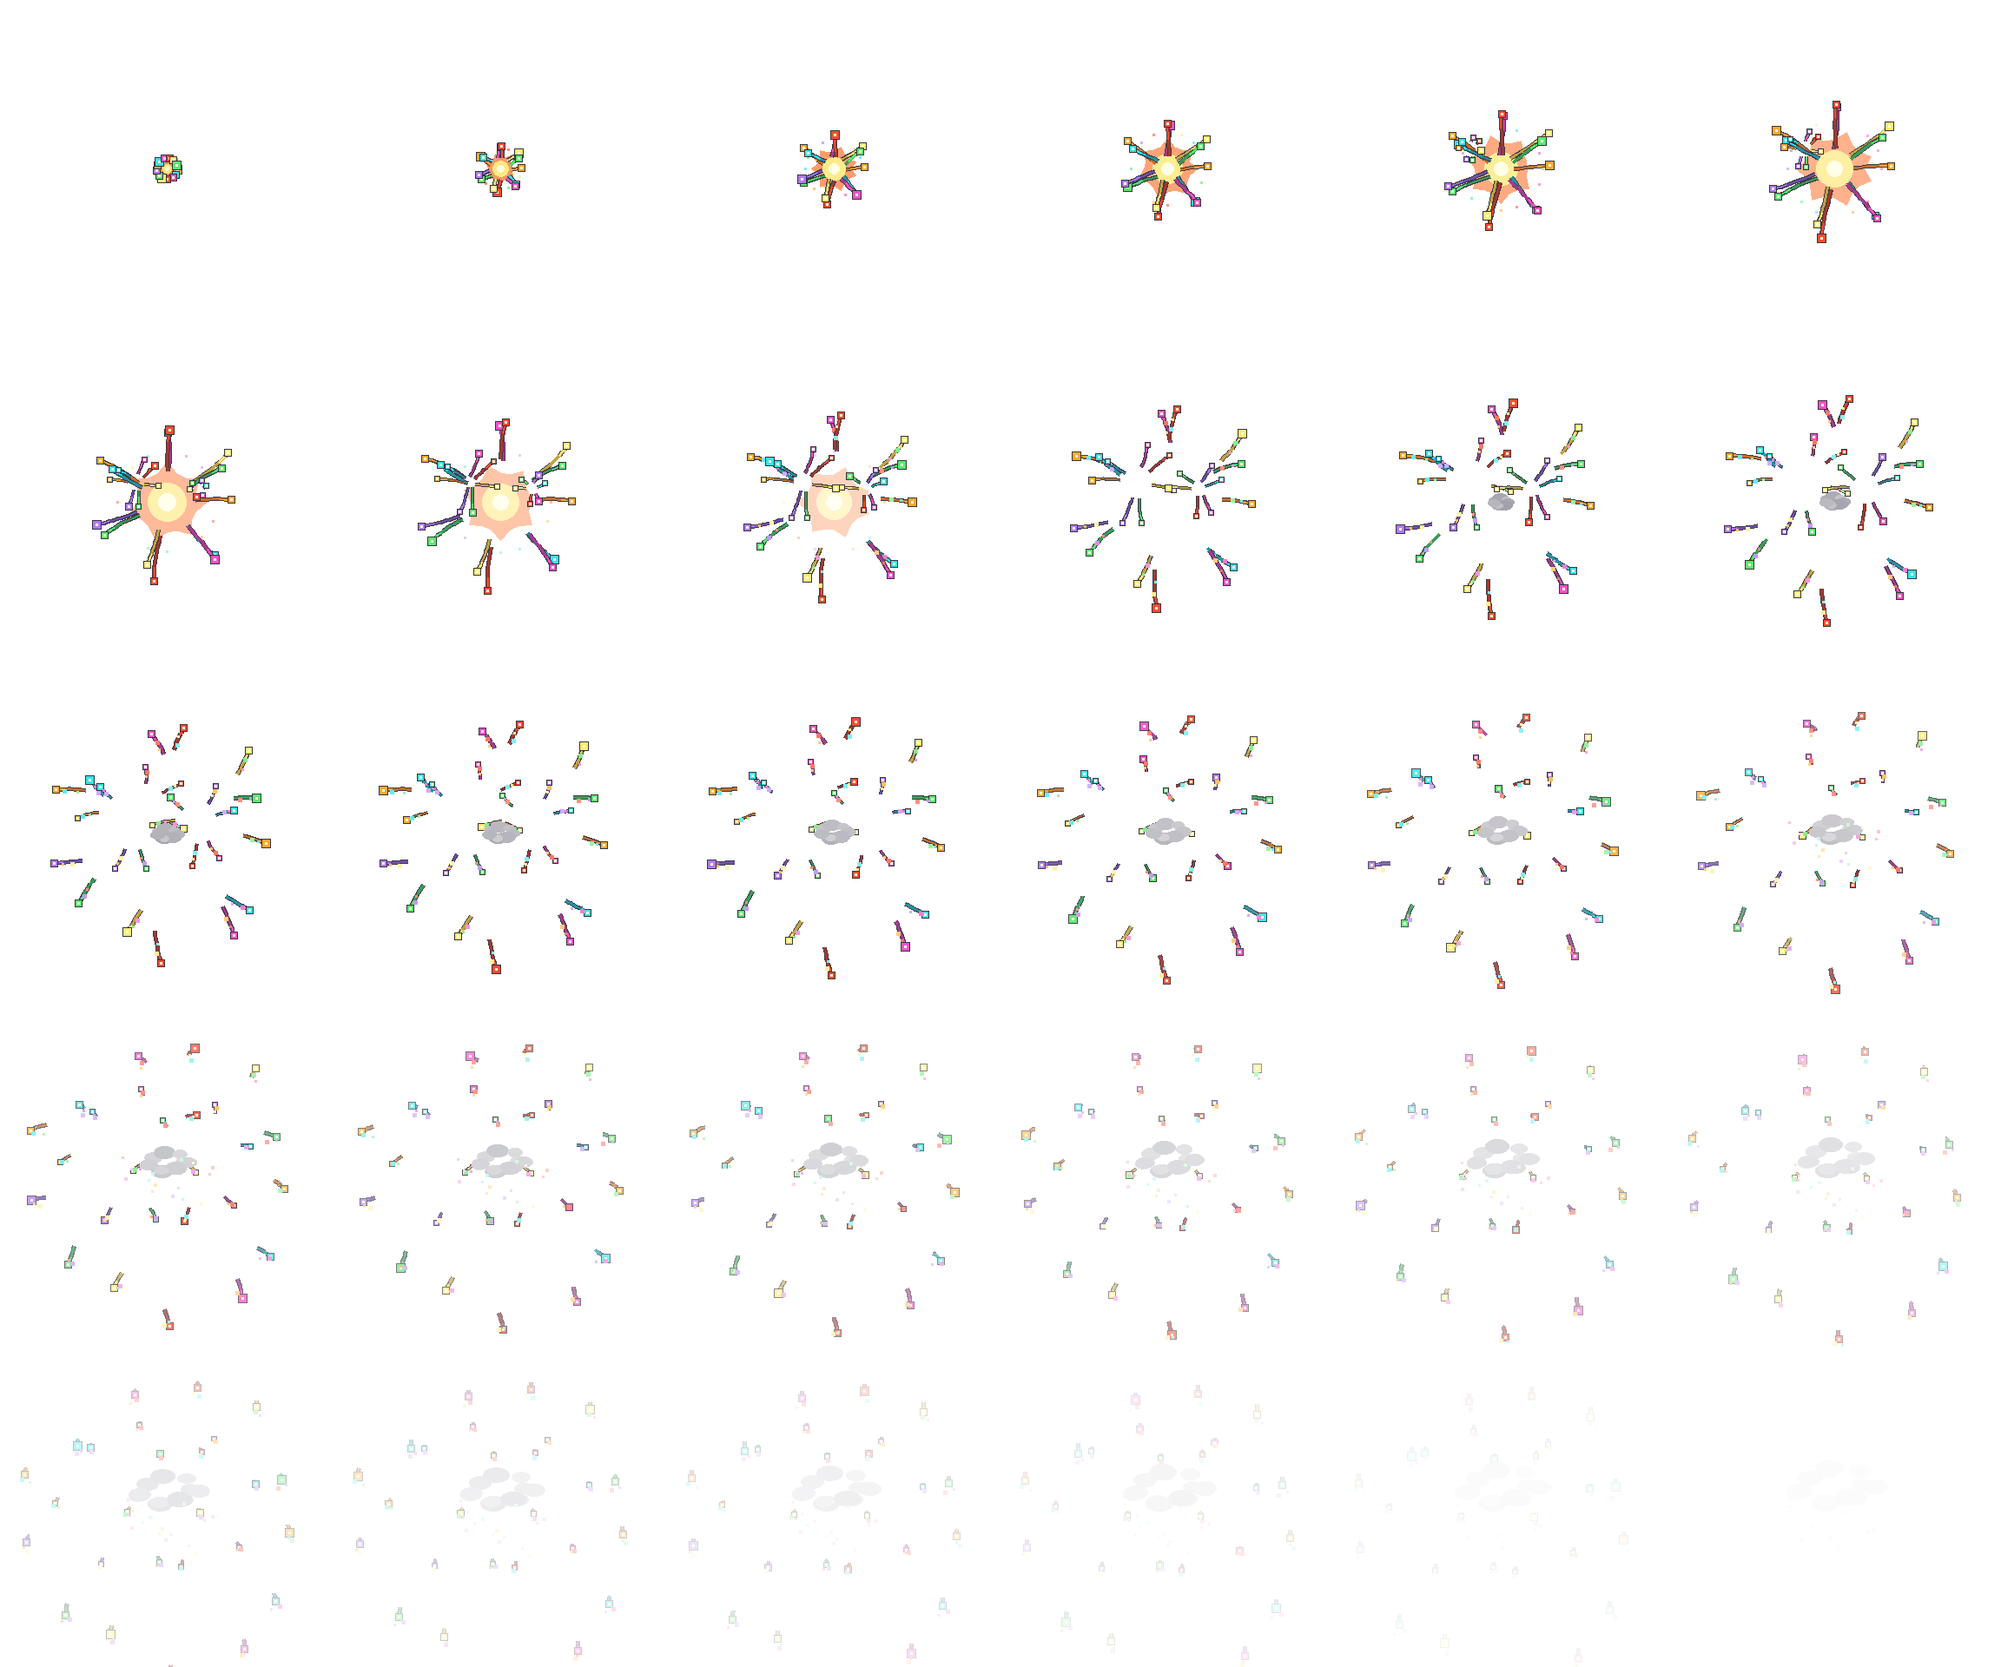
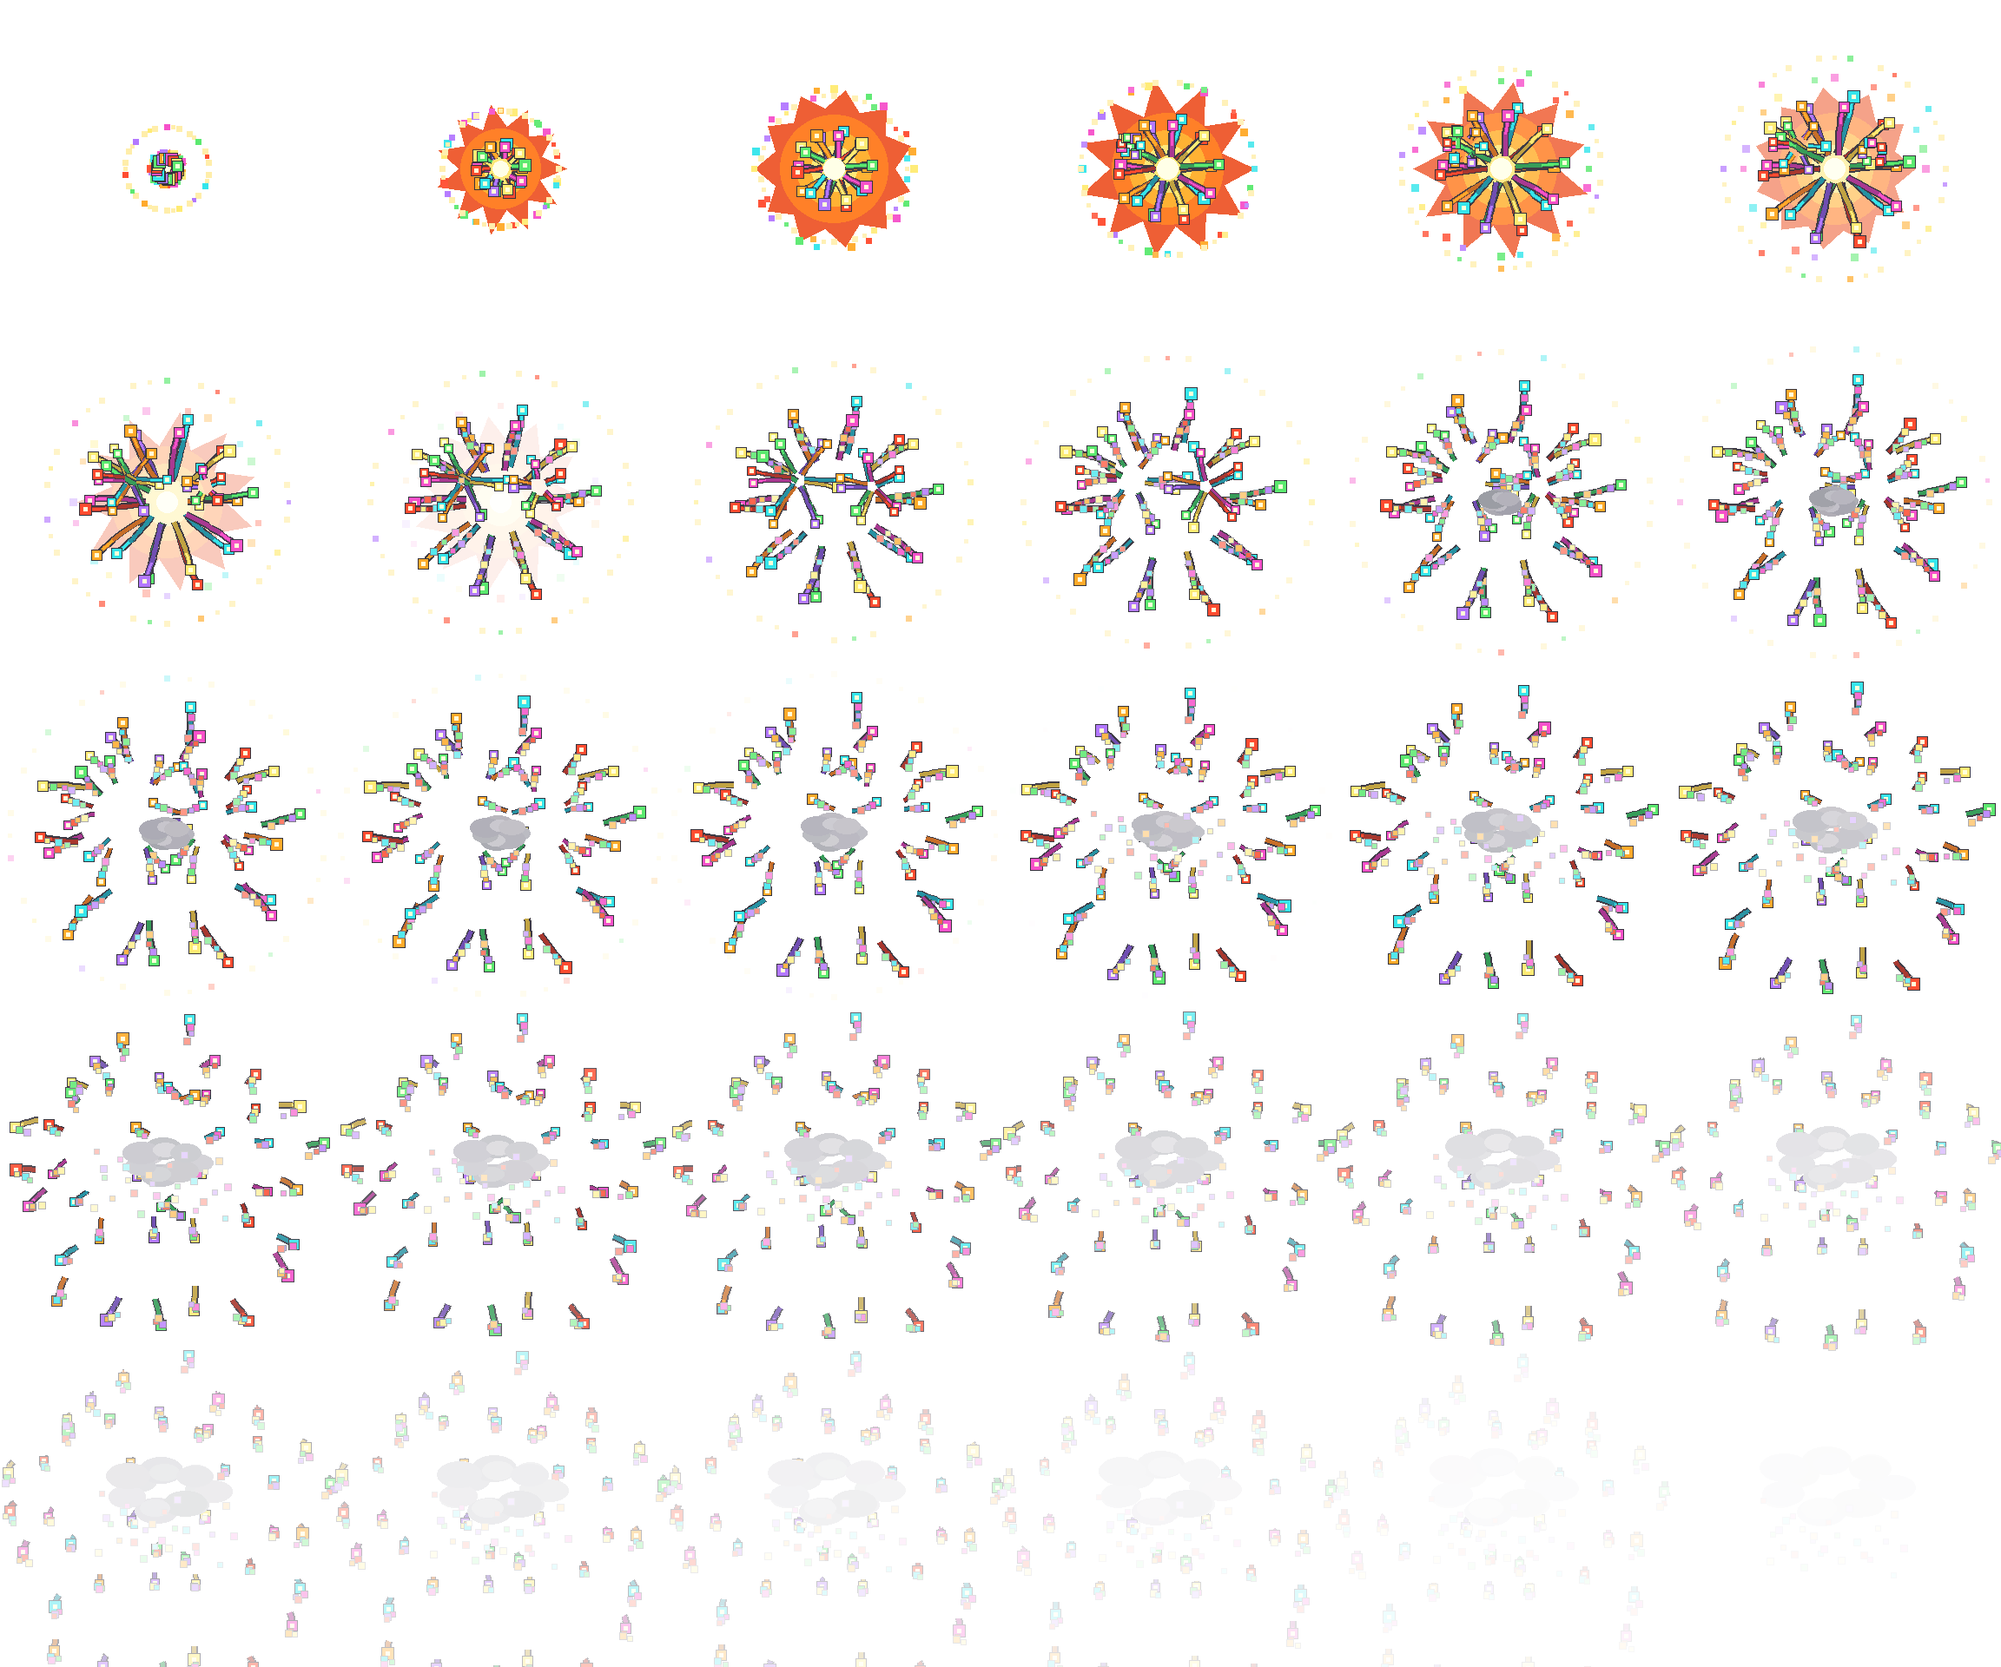
폭죽 폭발·로켓이 인게임에서 보이도록 아틀라스와 배율 수정
인게임 기록 모드에서 폭죽을 쏴 보면 폭발이 사실상 안 보였다. 30프레임 중
밝은 화염구는 앞 9프레임뿐이고 그마저 셀 384px 안에서 반경 38px에 불과해,
런타임에서 폭발 지름(약 520px)으로 늘리면 잔디 위에 얇은 색점만 남았다.
나머지 21프레임은 3px 선의 색종이 조각이라 배경에 묻혔다.

- 화염구가 폭발 실루엣까지 커지고, 켜져 있는 동안 알파를 고정해 잔디 위에서
  불투명하게 읽히도록 했다. 감쇠는 뒤 절반에서만 일어난다.
- 피해 가장자리까지 퍼지는 계단형 충격파 링을 넣어 폭발 반경이 눈에 보인다.
- 혜성 갈래를 26개에서 42개로 늘리고 궤적 두께·머리·불티 크기를 키워
  낙하 구간에도 폭발 반경 전체에 색점이 남는다.
- 비행 로켓은 192px 셀 안의 90px 연필 실루엣이었다. 셀을 채우도록 키우고
  노즐 화염과 22개짜리 스파크 꼬리를 붙였으며 런타임 배율도 .62 → .78.

검수는 문서용 캡처가 아니라 실제 게임을 띄워서 했다. main.lua에
LAST_HAUL_CAPTURE_SCORE_FIREWORK 캡처를 추가해 기록 모드에서 폭죽을 해금하고
실제 좌클릭 경로로 한 발 쏜 뒤 원하는 폭발 경과 시간에 스크린샷을 남긴다.
LAST_HAUL_SCORE_FIREWORK_AGE가 음수면 비행 중간, LAST_HAUL_SCORE_FIREWORK_MAX면
쌍발·자탄·삼단까지 켠 빌드를 재현한다.

verify_smoker_weapon_evolution_art.py, verify_asset_versions.py,
verify_smoker_weapon_evolutions.lua, verify_score_weapon_slots.lua 통과.

diff --git a/scripts/build_smoker_weapon_evolutions.py b/scripts/build_smoker_weapon_evolutions.py
@@ -80,16 +80,22 @@ for frame in range(6):
  for k in range(3):
   x=55+k*31+(frame%2)*5;qline(0,frame,[(x,75),(x-7,88)],(0,0,0,0),3)
 
-# Row 1: accelerating paper rocket with a changing multicolor spark train.
+# Row 1: accelerating firework rocket. The old silhouette was a 90 px pencil in
+# a 192 px cell, which shrank to an unreadable sliver at gameplay scale, so the
+# shell is larger, carries a lit nozzle flame and drags a denser spark train.
 for frame in range(6):
- x=52+frame*14;y=96+round(math.sin(frame*.9)*5);trail=32+frame*7
- qpoly(1,frame,[(x-22,y-8),(x+15,y-8),(x+28,y),(x+15,y+8),(x-22,y+8)],paper[2],ink,2)
- qpoly(1,frame,[(x+15,y-8),(x+31,y),(x+15,y+8)],(230,57,39,255),ink,1)
- qrect(1,frame,(x-15,y-5,x-10,y),burst[(frame+3)%len(burst)])
- qpoly(1,frame,[(x-23,y-6),(x-trail,y),(x-23,y+6)],paper[4],None)
- for k in range(13):
-  sx=x-25-(k*trail/13);sy=y+math.sin(k*1.8+frame)*12*(k/13)
-  color=burst[(k+frame*2)%len(burst)];size=1+(k+frame)%3
+ x=74+frame*13;y=96+round(math.sin(frame*.9)*6);trail=44+frame*9
+ qpoly(1,frame,[(x-27,y-10),(x-27-trail*.34,y),(x-27,y+10)],(255,170,42,255),None)
+ qpoly(1,frame,[(x-27,y-6),(x-27-trail*.21,y),(x-27,y+6)],(255,247,206,255),None)
+ qpoly(1,frame,[(x-26,y-11),(x+18,y-11),(x+36,y),(x+18,y+11),(x-26,y+11)],paper[2],ink,3)
+ qpoly(1,frame,[(x-26,y-11),(x+18,y-11),(x+18,y-4),(x-26,y-4)],paper[4],None)
+ qpoly(1,frame,[(x+18,y-11),(x+38,y),(x+18,y+11)],(230,57,39,255),ink,2)
+ qrect(1,frame,(x-17,y-7,x-7,y+7),burst[(frame+3)%len(burst)])
+ qrect(1,frame,(x+2,y-7,x+11,y+7),burst[(frame+5)%len(burst)])
+ for k in range(22):
+  sx=x-31-(k*trail/22);sy=y+math.sin(k*1.35+frame)*15*(k/22)
+  color=burst[(k+frame*2)%len(burst)];size=2+(k+frame)%3
+  qrect(1,frame,(sx-size-1,sy-size-1,sx+size+1,sy+size+1),ink)
   qrect(1,frame,(sx-size,sy-size,sx+size,sy+size),color)
 
 # Row 2: one authored six-beat multicolour burst, not a translated static star.
@@ -119,10 +125,14 @@ for frame in range(6):
 
 FX.parent.mkdir(parents=True,exist_ok=True);fx.save(FX)
 
-# Dedicated 30 fps firework bloom. The old shared six-frame row expanded one
-# radial star in large steps; this sheet follows continuous comet paths through
-# ignition, branching bloom, falling sparks and smoke decay.
+# Dedicated 30 fps firework bloom. The old sheet spent only nine frames on a
+# 38 px flash and then twenty-one frames on thin confetti, so at the real blast
+# scale (cell 384 px stretched over a ~520 px world diameter) the explosion read
+# as scattered dust over grass. This sheet keeps the same 30-frame contract but
+# gives the burst a growing fireball, a stepped shockwave ring and a much denser
+# comet bloom that still fills the damage silhouette while it decays.
 BCELL=384;BFRAMES=30;BCOLS=6;BROWS=5
+BCX,BCY=192,194
 burst_fx=Image.new('RGBA',(BCELL*BCOLS,BCELL*BROWS),(0,0,0,0));bd=ImageDraw.Draw(burst_fx)
 bright=[(255,76,48),(255,170,42),(255,235,116),(53,229,235),(91,233,111),(246,81,202),(179,120,255)]
 mid=[(163,42,33),(196,101,28),(189,157,54),(24,139,157),(42,151,79),(164,45,139),(103,67,173)]
@@ -142,31 +152,48 @@ def ease_out(u):return 1-(1-u)**2.15
 # Three related blooms start close together rather than making one geometric
 # wheel. The main bloom owns the damage silhouette; satellites add animation
 # richness without increasing the gameplay footprint.
-blooms=[(192,194,0.00,1.00,0.08,13),(157,171,0.11,.54,.31,7),(228,178,0.19,.48,-.22,6)]
+blooms=[(192,194,0.00,1.00,0.08,20),(150,168,0.09,.58,.31,12),(236,176,0.15,.52,-.22,10)]
 for frame in range(BFRAMES):
  t=frame/(BFRAMES-1)
- # Layered ignition flash with irregular stepped corona.
- if t<.31:
-  u=t/.31;core=max(2,round(8+30*math.sin(min(1,u)*math.pi*.72)))
-  fade=(1-u)**.42
+ # Layered ignition fireball. It grows into the blast silhouette instead of
+ # staying a small point, then burns off before the comets take the frame over.
+ if t<.26:
+  u=t/.26;grow=ease_out(min(1,u/.34));core=round(16+58*grow)
+  # The flash has to stay opaque while it is on screen: an alpha ramp that
+  # starts falling immediately washes the fireball out against lit grass.
+  fade=1 if u<.46 else ((1-u)/.54)**1.15
   pts=[]
-  for k in range(20):
-   a=k/20*math.pi*2;rr=core*(1+(.20 if (k+frame)%3==0 else -.08))
-   pts.append((192+math.cos(a)*rr,194+math.sin(a)*rr))
-  bpoly(frame,pts,alpha_color((255,108,38),190*fade))
-  bellipse(frame,(192-core*.58,194-core*.58,192+core*.58,194+core*.58),alpha_color((255,231,113),235*fade))
-  bellipse(frame,(192-core*.25,194-core*.25,192+core*.25,194+core*.25),alpha_color((255,255,225),255*fade))
-  ring=core+7+u*18
-  for k in range(16):
+  for k in range(22):
+   a=k/22*math.pi*2;rr=core*(1.34 if (k+frame)%2 else .92)*(1+math.sin(k*3.1+frame)*.06)
+   pts.append((BCX+math.cos(a)*rr,BCY+math.sin(a)*rr))
+  bpoly(frame,pts,alpha_color((236,74,26),225*fade))
+  for radius_scale,rgb,alpha in ((.86,(255,124,34),248),(.60,(255,178,52),255),(.36,(255,232,120),255),(.16,(255,255,231),255)):
+   rr=core*radius_scale
+   bellipse(frame,(BCX-rr,BCY-rr,BCX+rr,BCY+rr),alpha_color(rgb,alpha*fade))
+  # Stepped ember collar riding the fireball edge keeps the ball from reading
+  # as one smooth vector circle.
+  for k in range(28):
    if (k+frame)%3:
-    a=k/16*math.pi*2;brect(frame,(192+math.cos(a)*ring-1,194+math.sin(a)*ring-1,192+math.cos(a)*ring+1,194+math.sin(a)*ring+1),alpha_color(bright[(k+frame)%7],180*fade))
+    a=k/28*math.pi*2;rr=core*1.18+u*26;size=2+(k+frame)%3
+    brect(frame,(BCX+math.cos(a)*rr-size,BCY+math.sin(a)*rr-size,BCX+math.cos(a)*rr+size,BCY+math.sin(a)*rr+size),alpha_color(bright[(k+frame)%7],245*fade))
+
+ # Stepped shockwave ring. It reaches the authored damage edge so the player can
+ # read the blast footprint from the effect alone.
+ if t<.52:
+  u=t/.52;ring=48+ease_out(u)*138;ring_alpha=255*(1-u)**.85
+  for k in range(44):
+   a=k/44*math.pi*2
+   if (k+frame)%4==0:continue
+   size=2+(k+frame)%2
+   rx,ry=BCX+math.cos(a)*ring,BCY+math.sin(a)*ring
+   brect(frame,(rx-size,ry-size,rx+size,ry+size),alpha_color((255,238,170) if (k+frame)%3 else bright[(k+frame)%7],ring_alpha))
 
  for bloom_index,(cx,cy,delay,scale,angle_offset,count) in enumerate(blooms):
   if t<delay:continue
-  u=min(1,(t-delay)/(1-delay));travel=ease_out(min(1,u/.80));decay=max(0,1-max(0,u-.48)/.52)
+  u=min(1,(t-delay)/(1-delay));travel=ease_out(min(1,u/.80));decay=max(0,1-max(0,u-.58)/.42)
   for k in range(count):
    angle=angle_offset+k/count*math.pi*2+math.sin(k*2.17)*.055
-   speed=150*scale*(.86+(k%4)*.075)
+   speed=168*scale*(.86+(k%4)*.075)
    curve=(10+((k*7)%13))*scale*(1 if k%2 else -1)
    def point(at):
     p=ease_out(min(1,at/.80));dist=12*scale+speed*p
@@ -174,43 +201,47 @@ for frame in range(BFRAMES):
     gravity=(34+(k%3)*6)*scale*at*at
     return cx+math.cos(angle)*dist-math.sin(angle)*side,cy+math.sin(angle)*dist+math.cos(angle)*side+gravity
    head=point(u);trail=[]
-   for j in range(9,-1,-1):
+   for j in range(11,-1,-1):
     pu=max(0,u-j*.016/(.72+.28*scale))
     if pu<=0 and j>0:continue
     # Detached gaps emerge during the decay instead of cutting the whole ray.
-    if u>.52 and (j+frame+k)%5==0:continue
+    if u>.62 and (j+frame+k)%6==0:continue
     trail.append(point(pu))
    color_index=(k*2+bloom_index+1)%7;color=bright[color_index];shadow=mid[color_index]
    a=255*decay
    if len(trail)>1:
-    bline(frame,trail,alpha_color((19,16,28),a*.82),5 if scale>.7 else 4)
-    bline(frame,trail,alpha_color(shadow,a*.94),3 if scale>.7 else 2)
+    bline(frame,trail,alpha_color((19,16,28),a*.82),8 if scale>.7 else 6)
+    bline(frame,trail,alpha_color(shadow,a*.94),5 if scale>.7 else 4)
     # Highlight lives only near the moving head, preserving a stepped trail.
-    bline(frame,trail[-4:],alpha_color(color,a),2)
-   hx,hy=head;hs=(3 if scale>.7 else 2)+(1 if (frame+k)%4==0 else 0)
+    bline(frame,trail[-5:],alpha_color(color,a),3 if scale>.7 else 2)
+   hx,hy=head;hs=(5 if scale>.7 else 4)+(1 if (frame+k)%4==0 else 0)
    brect(frame,(hx-hs-1,hy-hs-1,hx+hs+1,hy+hs+1),alpha_color((18,15,27),a*.85))
    brect(frame,(hx-hs,hy-hs,hx+hs,hy+hs),alpha_color(color,a))
-   brect(frame,(hx-1,hy-1,hx+1,hy+1),alpha_color((255,255,218),a))
+   brect(frame,(hx-2,hy-2,hx+2,hy+2),alpha_color((255,255,218),a))
    # Each comet sheds smaller sparks that inherit its curve and then fall.
-   if u>.26:
-    for s in range(2):
-     lag=.055+s*.047;su=max(0,u-lag);sx,sy=point(su)
+   if u>.22:
+    for s in range(3):
+     lag=.050+s*.042;su=max(0,u-lag);sx,sy=point(su)
      fall=max(0,u-.30)*(18+s*11)*scale
      sx+=math.sin(k*1.7+s*2.3)*8*scale*(u-.18);sy+=fall
-     ss=1+(s+k)%2;brect(frame,(sx-ss,sy-ss,sx+ss,sy+ss),alpha_color(bright[(color_index+s+2)%7],a*(.76-s*.14)))
+     ss=2+(s+k)%2
+     brect(frame,(sx-ss-1,sy-ss-1,sx+ss+1,sy+ss+1),alpha_color((18,15,27),a*(.55-s*.10)))
+     brect(frame,(sx-ss,sy-ss,sx+ss,sy+ss),alpha_color(bright[(color_index+s+2)%7],a*(.86-s*.14)))
 
  # Smoke is a clustered afterimage, not a translucent full-screen circle.
  if t>.34:
   su=(t-.34)/.66;sa=max(7,150*(1-su))
-  for k in range(11):
-   angle=k*.91;dist=8+su*(24+(k%4)*5);sx=192+math.cos(angle)*dist;sy=194+math.sin(angle)*dist*.52-su*20
-   rr=5+(k%3)*2+su*7
+  for k in range(14):
+   angle=k*.91;dist=10+su*(38+(k%4)*7);sx=BCX+math.cos(angle)*dist;sy=BCY+math.sin(angle)*dist*.52-su*20
+   rr=9+(k%3)*4+su*11
    bellipse(frame,(sx-rr,sy-rr*.58,sx+rr,sy+rr*.58),alpha_color(smoke[(k+frame//6)%4],sa*(.55+(k%3)*.1)))
   # Repaint a few late embers above smoke so the tail remains legible.
-  if t>.56:
-   for k in range(15):
-    fall=(t-.56)*95*(.5+(k%4)*.13);sx=142+(k*29%104)+math.sin(frame*.34+k)*5;sy=178+(k*17%55)+fall
-    a=max(8,190*(1-t));brect(frame,(sx-1,sy-1,sx+1+(k%2),sy+1+(k%2)),alpha_color(bright[(k*3)%7],a))
+  if t>.50:
+   for k in range(26):
+    fall=(t-.50)*95*(.5+(k%4)*.13);sx=112+(k*29%164)+math.sin(frame*.34+k)*5;sy=168+(k*17%75)+fall
+    a=max(10,205*(1-t));size=2+(k%2)
+    brect(frame,(sx-size-1,sy-size-1,sx+size+1,sy+size+1),alpha_color((18,15,27),a*.6))
+    brect(frame,(sx-size,sy-size,sx+size,sy+size),alpha_color(bright[(k*3)%7],a))
 
 BURST_FX.parent.mkdir(parents=True,exist_ok=True);burst_fx.save(BURST_FX)
 print(f'WROTE {EQUIP} {eq.width}x{eq.height} cells=2')

diff --git a/docs/SMOKER_WEAPON_EVOLUTIONS.md b/docs/SMOKER_WEAPON_EVOLUTIONS.md
@@ -30,6 +30,18 @@
 - 비행 6프레임과 폭발 전용 30프레임을 분리한다. 폭발은 384px 원생 셀을 1초 동안 30fps로 재생하며 점화→다색 곡선 방사→불티 분열과 낙하→연기·잔광 소멸이 프레임 사이에서 이어진다.
 - 폭발은 빨강·금색·청록·초록·자홍을 함께 사용하지만 실사 입자나 매끈한 벡터 광선이 아니라 단계 명암의 카툰 픽셀 불티로 표현한다. 단색 원/사각형 런타임 도형은 사용하지 않는다.
 
+### 인게임 가독성 기준 (2026-08-31)
+
+셀(384px)은 런타임에서 폭발 지름(반경 180 + 특성, 실측 약 520px)으로 늘어난다. 아틀라스가 셀 가운데만 얇게 쓰면 실제 화면에서는 잔디 위에 색점 몇 개만 남아 "이펙트가 안 나온다"로 읽힌다. 그래서 다음을 지킨다.
+
+- 점화 화염구는 켜져 있는 동안 **불투명**해야 한다. 알파를 프레임 0부터 떨어뜨리면 밝은 잔디에 묻힌다. 앞 절반은 알파 고정, 뒤 절반만 감쇠시킨다.
+- 폭발 반경을 눈으로 알 수 있도록 **계단형 충격파 링**이 피해 가장자리까지 퍼진다.
+- 혜성 갈래는 주 폭발 20개 + 위성 2개(12/10)이며, 궤적 두께와 머리 크기는 게임플레이 축소(약 1.35배 확대이므로 실질 확대)에서도 뭉개지지 않게 잡는다.
+- 30프레임 중 뒤 3분의 2가 낙하 불티·연기 구간이므로, 그 구간에도 색점이 폭발 반경 전체에 남아 있어야 한다.
+- 비행 로켓도 셀 안에서 충분히 크게 그리고(런타임 배율 0.78) 불꽃 노즐과 긴 스파크 꼬리를 붙인다.
+
+인게임 검수는 `LAST_HAUL_CAPTURE_SCORE_FIREWORK=1`로 실제 기록 모드를 띄워 찍는다. `LAST_HAUL_SCORE_FIREWORK_AGE`로 폭발 경과 시간을 고르고(음수면 비행 중간), `LAST_HAUL_SCORE_FIREWORK_MAX=1`이면 쌍발·자탄·삼단까지 켠 최종 빌드를 재현한다. 결과물: `score-firework-rocket.png`, `score-firework-burst.png`, `score-firework-finale.png`.
+
 ## 자산과 검증
 
 - 장비: `assets/characters/ingame/smoker-weapon-evolution-equipment-v1.png`
